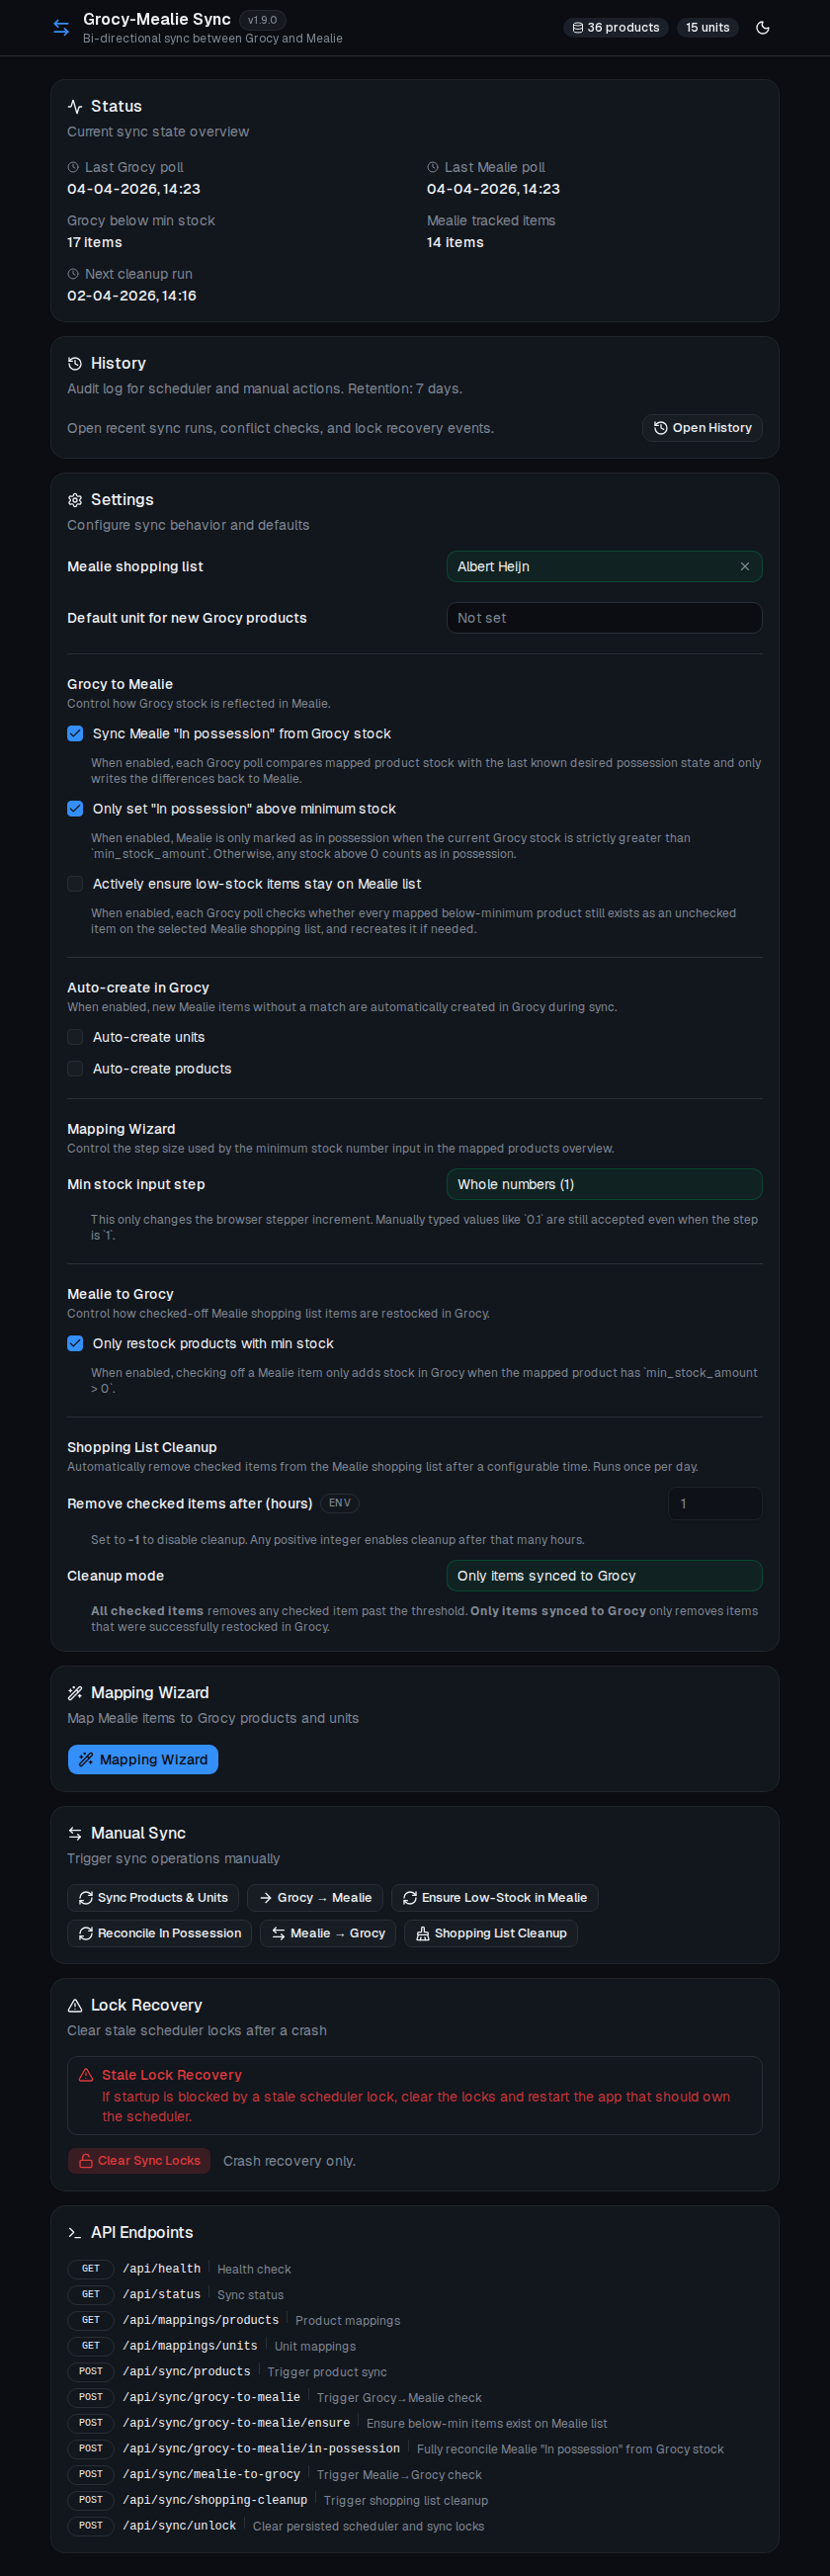
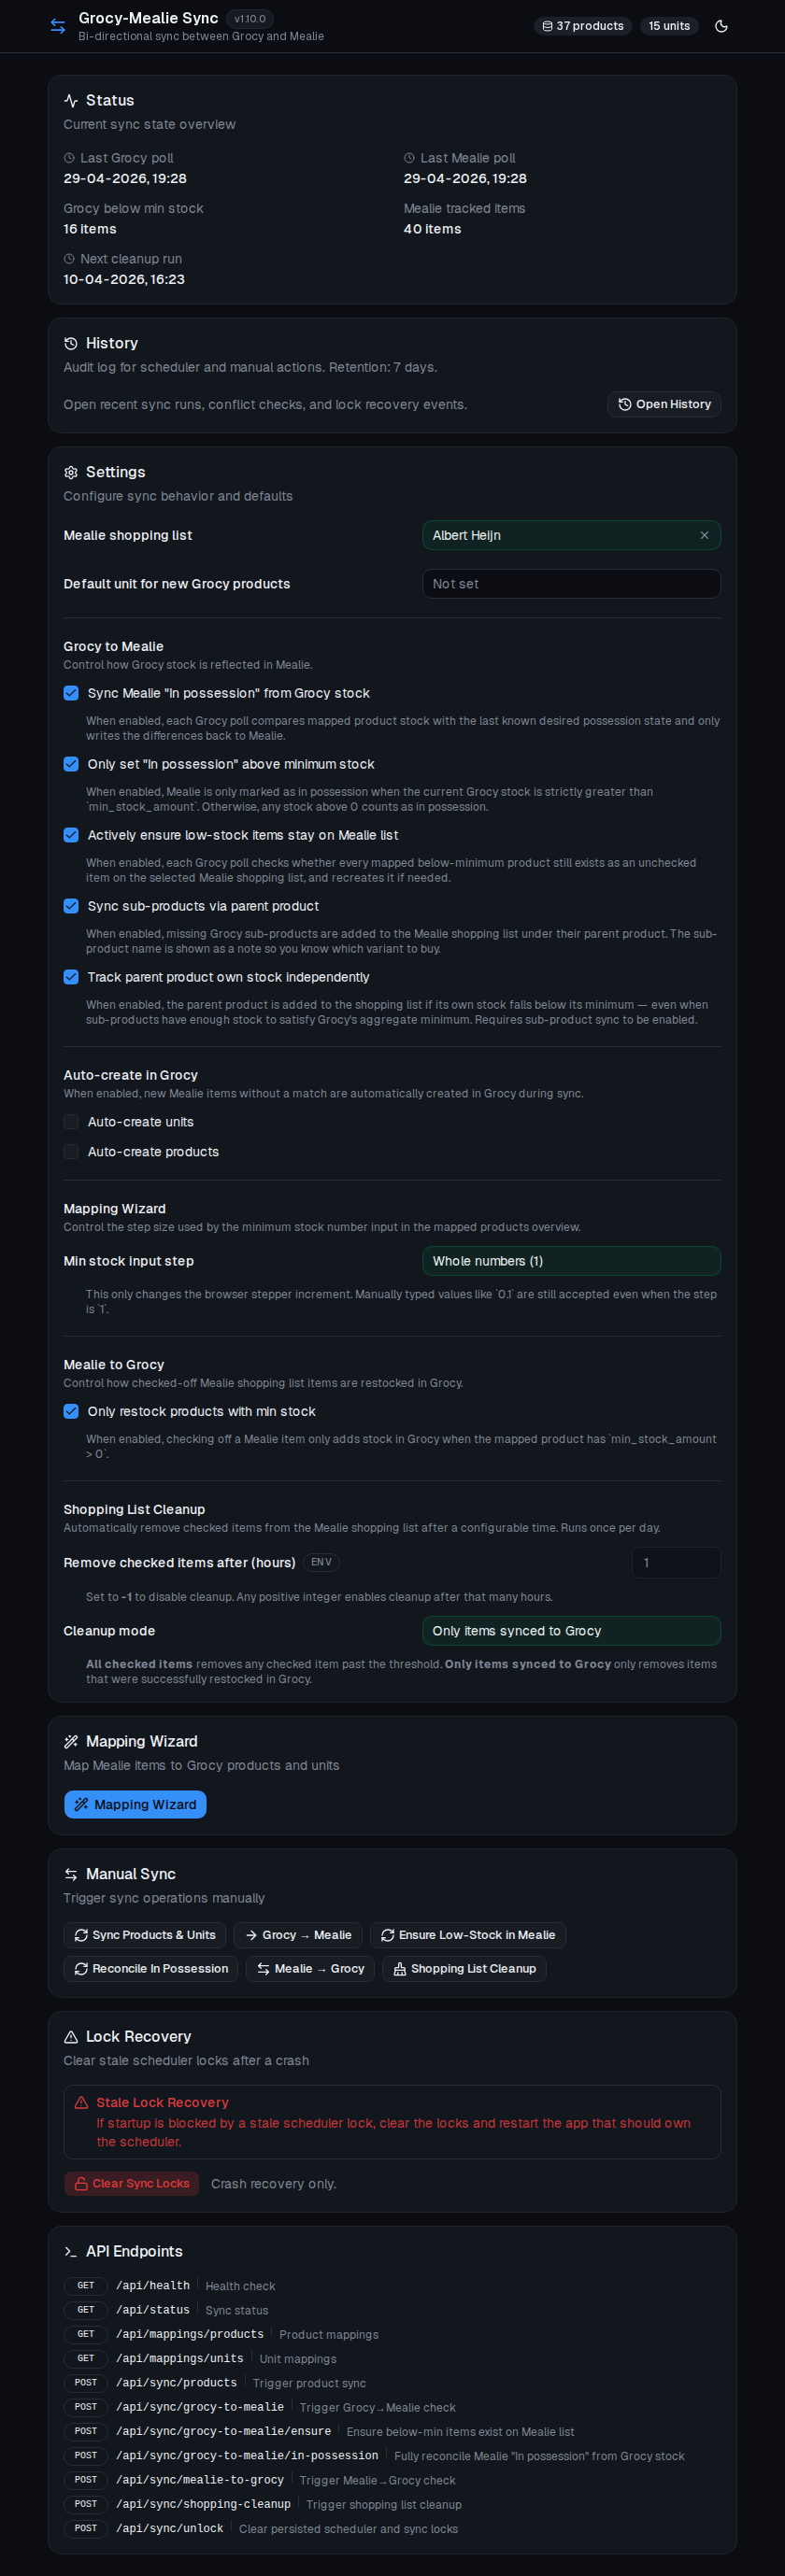
chore: release v1.10.0

diff --git a/CHANGELOG.md b/CHANGELOG.md
@@ -2,6 +2,26 @@
 
 All notable changes to this project are documented in this file.
 
+## [1.10.0] - 2026-04-29
+
+This minor release adds sub-product sync between Grocy and Mealie shopping lists, guards against invalid stock operations on no-own-stock products, and patches a postcss XSS vulnerability.
+
+### Added
+
+- Sub-product sync: Grocy sub-products are grouped under their parent product on the Mealie shopping list; checking off a Mealie item restocks each sub-product individually in Grocy.
+- `syncParentOwnStock` setting to control whether parent product own-stock is tracked independently from its sub-products.
+
+### Changed
+
+- Log messages for sub-product resolution and combinations now only appear when state is new or changed, suppressing repeated messages on subsequent polls.
+- Parent product name is now shown instead of the raw product ID in sub-product log messages.
+
+### Fixed
+
+- Products with `no_own_stock=1` in Grocy are now skipped during the in-possession sync and the Mealie→Grocy stock-add flow, with a one-time log message per product.
+- Extras arrays are now serialized as JSON strings for Mealie API compatibility.
+- Overrode postcss to ≥ 8.5.10 in the `next` dependency to resolve CVE GHSA-qx2v-qp2m-jg93 (XSS via unescaped `</style>`).
+
 ## [1.9.0] - 2026-04-05
 
 This minor release adds MCP inventory-entry creation and hardens the Grocy stock-entry resolution path so create-entry mutations remain accurate under concurrent writes and merged stock batches.
@@ -224,6 +244,7 @@ This release promotes the current base to `1.0.0`. Compared with `v0.0.1`, the p
 
 - First tagged preview release.
 
+[1.10.0]: https://github.com/HarmEllis/grocy-mealie-sync/compare/v1.9.0...v1.10.0
 [1.9.0]: https://github.com/HarmEllis/grocy-mealie-sync/compare/v1.8.1...v1.9.0
 [1.8.1]: https://github.com/HarmEllis/grocy-mealie-sync/compare/v1.8.0...v1.8.1
 [1.8.0]: https://github.com/HarmEllis/grocy-mealie-sync/compare/v1.7.0...v1.8.0